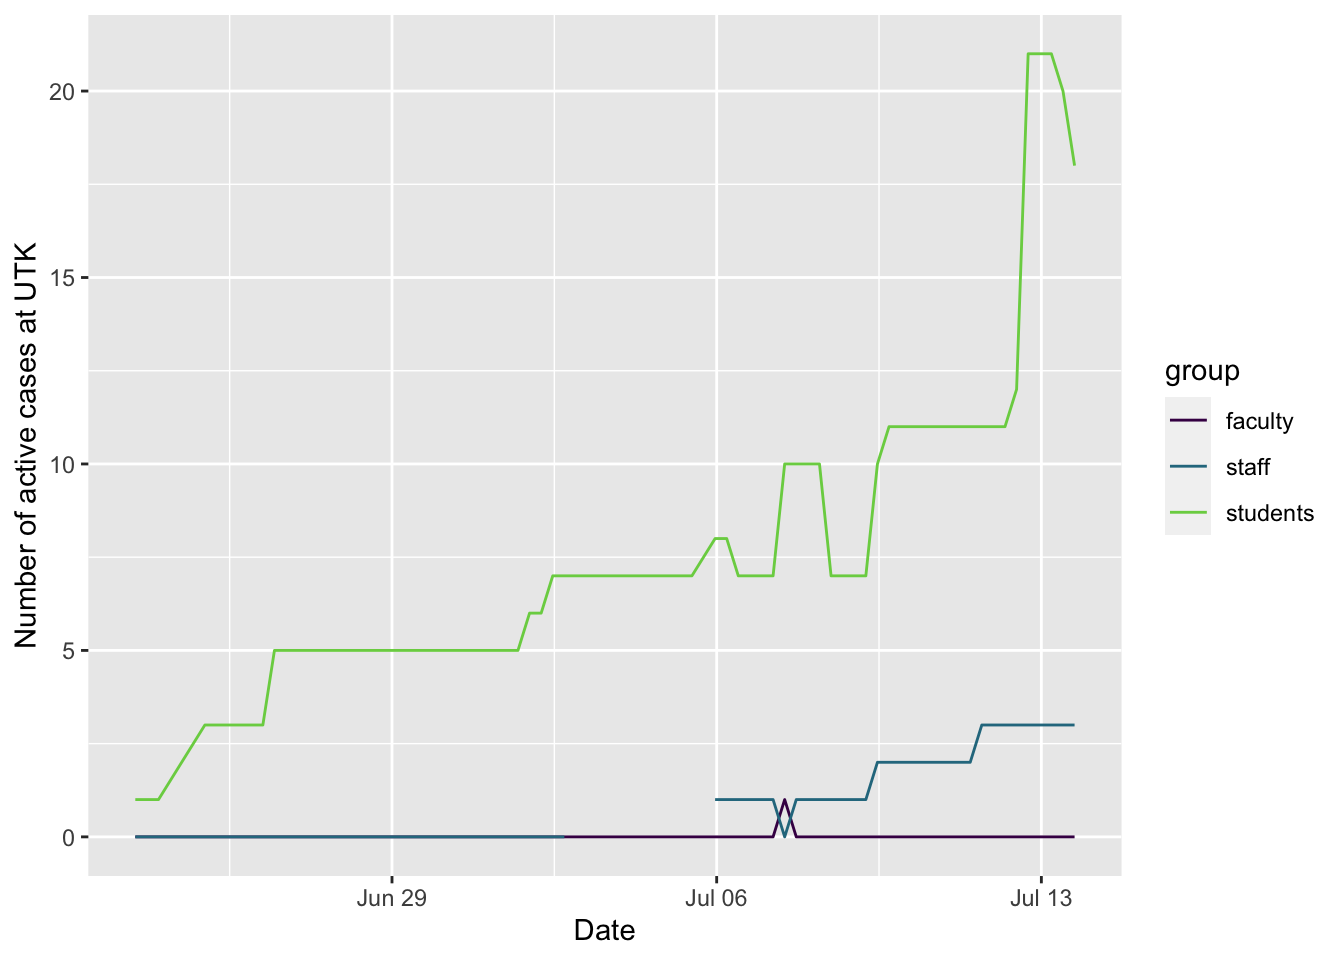
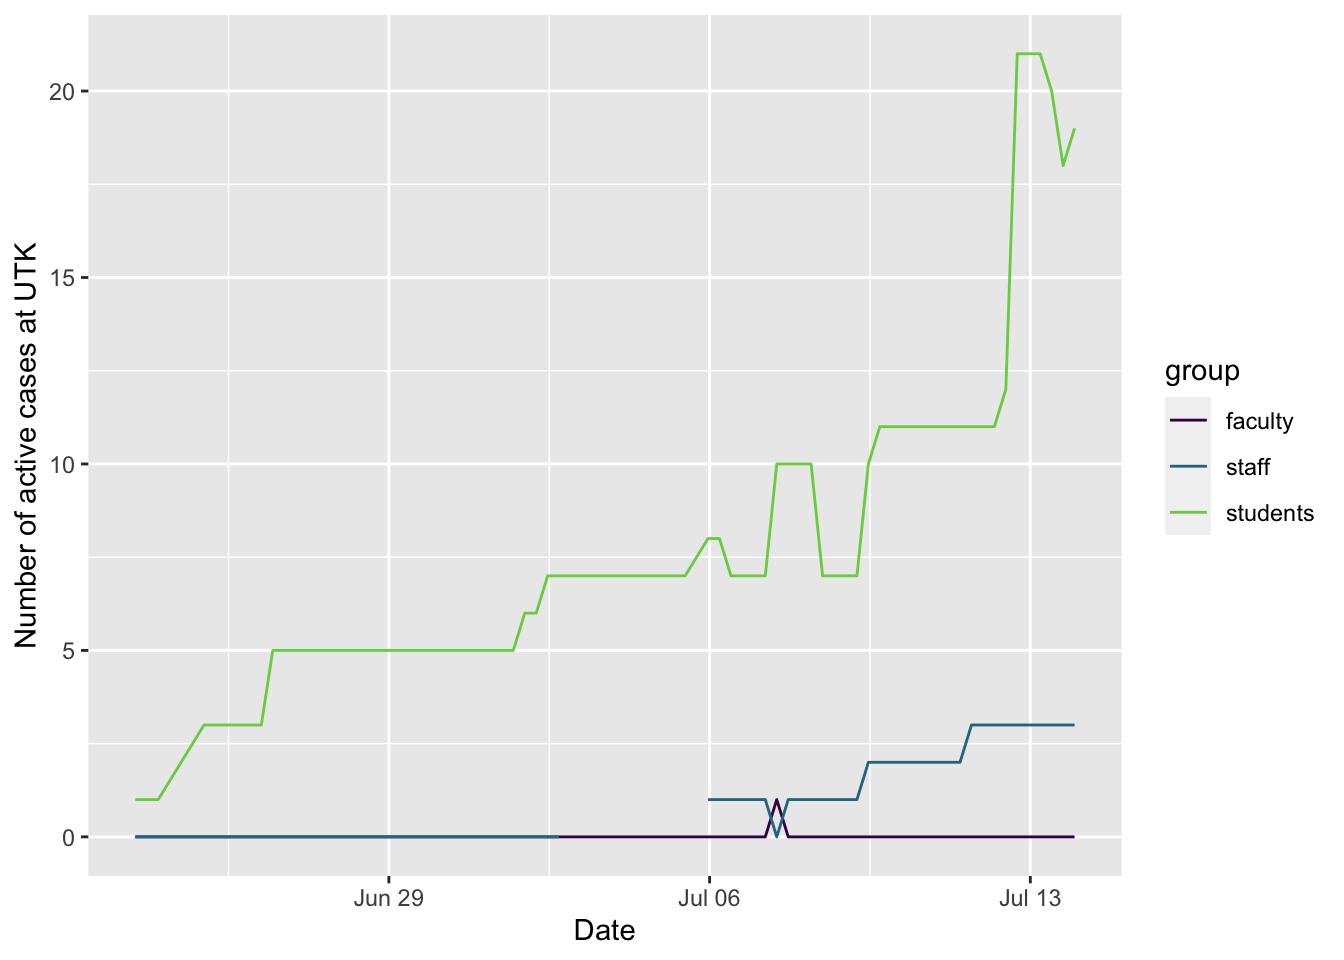
updating site

diff --git a/docs/covid.html b/docs/covid.html
@@ -411,7 +411,7 @@ $(document).ready(function () {
 <li><a href="https://projects.propublica.org/reopening-america/">ProPublica’s tracker of state status</a>. Click on the play button below their map to see how rates are changing over time, and dig into info on your state.</li>
 </ul>
 <hr />
-<p>Here are some plots, created in R using data from <a href="https://covid19datahub.io" class="uri">https://covid19datahub.io</a> (Guidotti, E., Ardia, D., (2020), “COVID-19 Data Hub”, Working paper, doi: 10.13140/RG.2.2.11649.81763), as well as information from Google and the <a href="https://www.tn.gov/health/cedep/ncov/data/downloadable-datasets.html">state of Tennessee dataset page</a> and plotting and analysis using the <code>forecast</code>, <code>ggplot2</code>, <code>reshape2</code>, and <code>dplyr</code> packages. It also uses the <a href="https://github.com/mtna/rds-r">rds-r</a> package from <a href="https://www.richdataservices.com/" class="uri">https://www.richdataservices.com/</a>. Plots created on 2020-07-13 18:34:03. I use <code>ggplot2</code>’s <code>geom_smooth()</code> function for the smoothed regression plots with its default formula, which uses loess smoothing for this many points. This is not based on a model of disease spread or anything similarly sophisticated, just drawing a smooth curve to summarize noisy points (see <a href="https://www.itl.nist.gov/div898/handbook/pmd/section1/pmd144.htm">here</a> for more details).</p>
+<p>Here are some plots, created in R using data from <a href="https://covid19datahub.io" class="uri">https://covid19datahub.io</a> (Guidotti, E., Ardia, D., (2020), “COVID-19 Data Hub”, Working paper, doi: 10.13140/RG.2.2.11649.81763), as well as information from Google and the <a href="https://www.tn.gov/health/cedep/ncov/data/downloadable-datasets.html">state of Tennessee dataset page</a> and plotting and analysis using the <code>forecast</code>, <code>ggplot2</code>, <code>reshape2</code>, and <code>dplyr</code> packages. It also uses the <a href="https://github.com/mtna/rds-r">rds-r</a> package from <a href="https://www.richdataservices.com/" class="uri">https://www.richdataservices.com/</a>. Plots created on 2020-07-14 00:34:03. I use <code>ggplot2</code>’s <code>geom_smooth()</code> function for the smoothed regression plots with its default formula, which uses loess smoothing for this many points. This is not based on a model of disease spread or anything similarly sophisticated, just drawing a smooth curve to summarize noisy points (see <a href="https://www.itl.nist.gov/div898/handbook/pmd/section1/pmd144.htm">here</a> for more details).</p>
 <p>The number of new and active cases should be not be going up if things are well-controlled, and ideally should be going down. The number of active cases is the number of positive cases minus the total of recovered or deceased cases: note it is from those tested and shown to be positive, but there are likely more people with covid who have not been tested. This uses data from <a href="https://www.tn.gov/health/cedep/ncov/data/downloadable-datasets.html" class="uri">https://www.tn.gov/health/cedep/ncov/data/downloadable-datasets.html</a>. Note that the number of active cases in Knox County reported by the state differs from the <a href="https://covid.knoxcountytn.gov/case-count.html#covid_data">county website</a>, sometimes dramatically (on June 16, the county website said 102 active cases, while the state says 178, for example) – I suspect this is based on the number of recovered cases not being updated as quickly in the state data, but I do not know. Knox County does not seem to offer a download of their data through time, so I am using the state’s data. The number of new cases per day seems to align fairly well, but not perfectly, between the state and county data, too.</p>
 <p><img src="covid_files/figure-html/plotsA-1.png" width="672" /><img src="covid_files/figure-html/plotsA-2.png" width="672" /></p>
 <p>A question is whether testing is adequate. The White House has said about 30 tests per 1000 people per month is adequate (this is also what <a href="https://projects.propublica.org/reopening-america/#notes">ProPublica</a> uses); others have argued that around 45 tests per 1000 people per month is better, though with variation depending on infection rate (see <a href="https://www.statnews.com/2020/04/27/coronavirus-many-states-short-of-testing-levels-needed-for-safe-reopening/">here</a>). These are the black lines on the plots below (calculated as tests per day, given Knox County’s population of 470313).</p>
